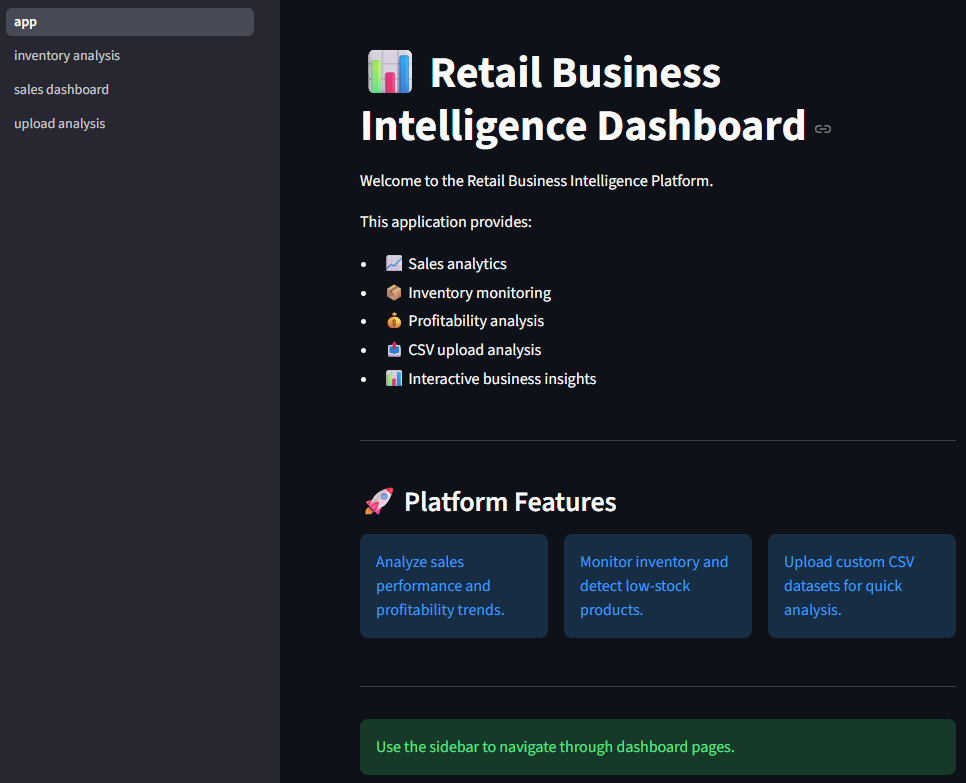
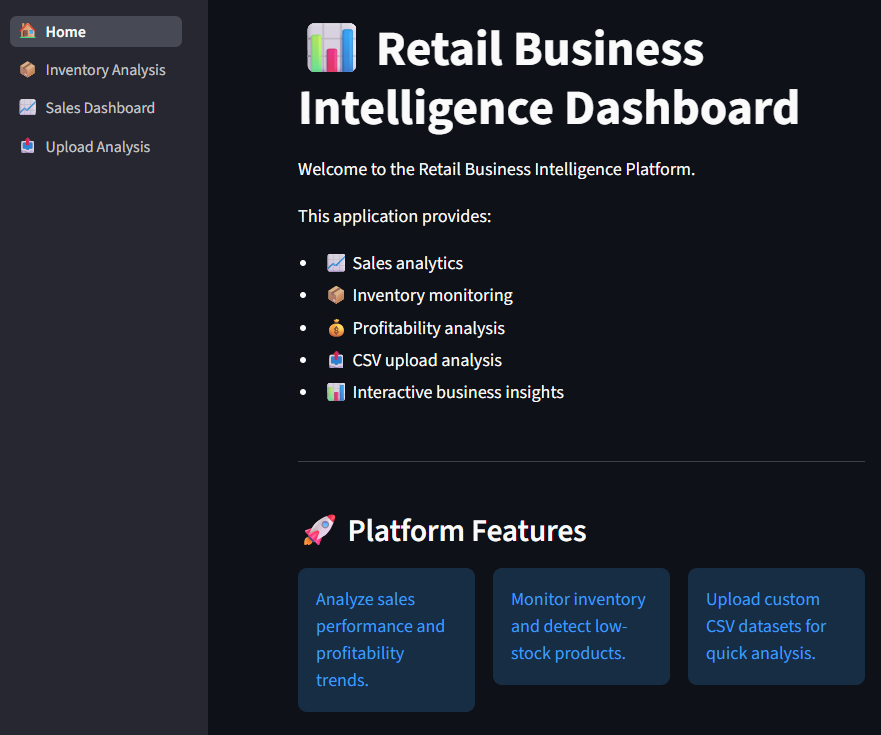
Finalize dashboard UI and update project documentation

diff --git a/README.md b/README.md
@@ -73,14 +73,17 @@ The Streamlit application includes:
 retail-sales-analysis/
 │
 ├── app/
-│   ├── app.py
+│   ├── 0_🏠_Home.py
+│   │
 │   ├── pages/
-│   │   ├── sales_dashboard.py
-│   │   ├── inventory_analysis.py
-│   │   └── upload_analysis.py
+│   │   ├── 1_📦_Inventory_Analysis.py
+│   │   ├── 2_📈_Sales_Dashboard.py
+│   │   └── 3_📤_Upload_Analysis.py
+│   │
 │   ├── components/
 │   │   ├── filters.py
 │   │   └── kpi_cards.py
+│   │
 │   └── utils/
 │       └── data_loader.py
 │
@@ -93,7 +96,7 @@ retail-sales-analysis/
 │   ├── 02_data_cleaning.ipynb
 │   └── 03_exploratory_data_analysis.ipynb
 │
-├── screenshot/
+├── screenshots/
 │
 ├── requirements.txt
 ├── README.md
@@ -232,7 +235,7 @@ pip install -r requirements.txt
 ### 4. Run the Streamlit dashboard
 
 ```bash
-streamlit run app/app.py
+streamlit run app/0_🏠_Home.py
 ```
 
 ### 5. Explore the notebooks
